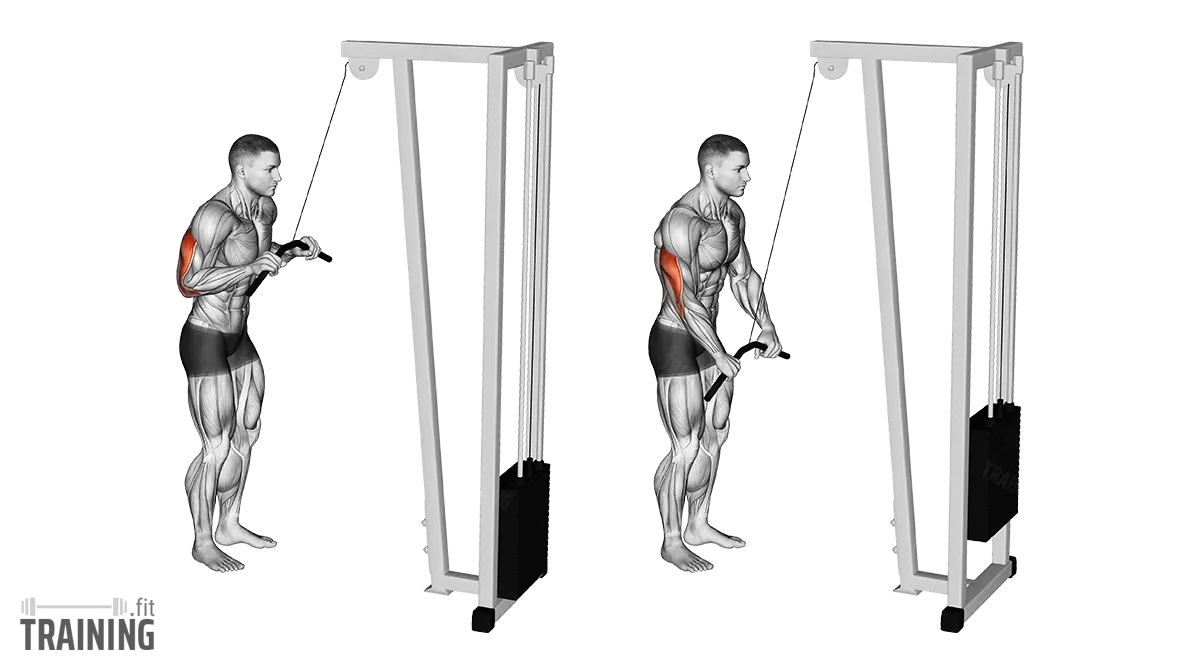
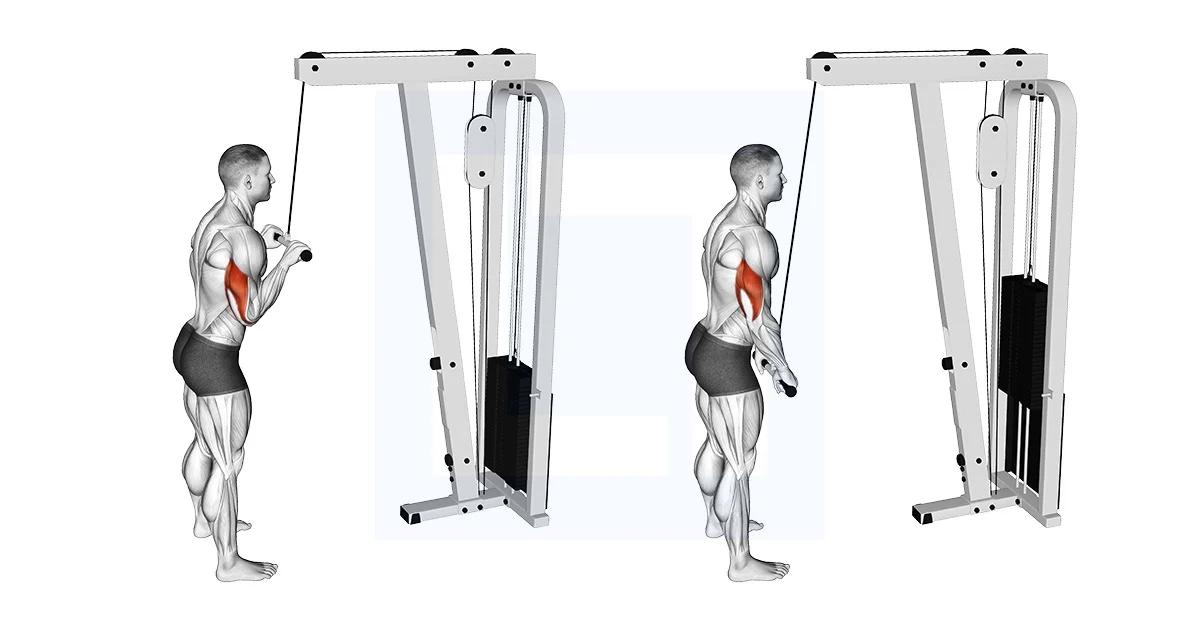
añadidas imagenes recurso de cada ejercicio

diff --git a/seccion_ejercicios.js b/seccion_ejercicios.js
@@ -6,19 +6,19 @@ let ejerciciosPredeterminados = [
   { nombre: "Tríceps en polea", musculo: "Tríceps", descripcion: "Empuje de barra o cuerda en polea alta hacia abajo. Aísla el tríceps de forma segura y efectiva.", imagenes: ["ejercicios_predeterminados/triceps_polea.webp"] },
   { nombre: "Pájaros en polea alta", musculo: "Pecho", descripcion: "Aperturas con poleas desde posición alta. Trabaja el pectoral en su ángulo más completo, similar a la banca plana.", imagenes: ["ejercicios_predeterminados/pajaros_altos.webp"] },
   { nombre: "Pájaros en polea baja", musculo: "Pecho", descripcion: "Apertura con poleas desde posición baja. Activa sobre todo la parte superior del pectoral.", imagenes: ["ejercicios_predeterminados/pajaros_bajos.webp"]},
-  { nombre: "Dominadas lastradas", musculo: "Espalda", descripcion: "Dominadas con peso añadido. Trabaja dorsales y fuerza de agarre.", imagenes: ["Dominadas-lastradas-subida-explosiva.png"] },
-  { nombre: "Jalón al pecho", musculo: "Espalda", descripcion: "Tirón de polea alta hacia el pecho. Ideal para trabajar los músculos dorsales.", imagenes: ["ejercicios_predeterminados/jalon_al_pecho.webp"]},
-  { nombre: "Remo con barra", musculo: "Espalda alta", descripcion: "Tracción horizontal con barra hacia el abdomen. Ideal para desarrollar trapecios, romboides y dorsales.", imagenes: [] },
-  { nombre: "Remo sentado", musculo: "Espalda media", descripcion: "Tracción con polea baja y agarre en V. Trabaja la parte media de la espalda y los dorsales inferiores.", imagenes: [] },
+  { nombre: "Dominadas lastradas", musculo: "Espalda", descripcion: "Dominadas con peso añadido. Trabaja dorsales y fuerza de agarre.", imagenes: ["ejercicios_predeterminados/dominadas_lastradas.jpg"] },
+  { nombre: "Jalón al pecho", musculo: "Espalda", descripcion: "Tirón de polea alta hacia el pecho. Ideal para trabajar los músculos dorsales.", imagenes: ["ejercicios_predeterminados/jalon_al_pecho.jpeg"]},
+  { nombre: "Remo con barra", musculo: "Espalda alta", descripcion: "Tracción horizontal con barra hacia el abdomen. Ideal para desarrollar trapecios, romboides y dorsales.", imagenes: ["ejercicios_predeterminados/remon_con_barra.png"] },
+  { nombre: "Remo sentado", musculo: "Espalda media", descripcion: "Tracción con polea baja y agarre en V. Trabaja la parte media de la espalda y los dorsales inferiores.", imagenes: ["ejercicios_predeterminados/Seated+Cable+Row1.webp","ejercicios_predeterminados/seated-cable-row2.jpg"] },
   { nombre: "Face pull", musculo: "Espalda alta", descripcion: "Tirón facial con polea alta. Perfecto para deltoides posterior, trapecio y mejorar la postura.", imagenes: ["ejercicios_predeterminados/face_pull.webp"]},
-  { nombre: "Curl de bíceps banco inclinado", musculo: "Bíceps", descripcion: "Curl de bíceps acostado boca arriba en banco inclinado. Alarga el bíceps y evita trampas con el torso.", imagenes: [] },
-  { nombre: "Curl de bíceps en polea", musculo: "Bíceps", descripcion: "Curl con polea baja y barra recta o cuerda. Mantiene tensión constante durante todo el movimiento.", imagenes: [] },
+  { nombre: "Curl de bíceps banco inclinado", musculo: "Bíceps", descripcion: "Curl de bíceps acostado boca arriba en banco inclinado. Alarga el bíceps y evita trampas con el torso.", imagenes: ["ejercicios_predeterminados/dumbbell-incline-biceps-curl.webp"] },
+  { nombre: "Curl de bíceps en polea", musculo: "Bíceps", descripcion: "Curl con polea baja y barra recta o cuerda. Mantiene tensión constante durante todo el movimiento.", imagenes: ["ejercicios_predeterminados/biceps_polea.webp"] },
   { nombre: "Elevaciones laterales en polea", musculo: "Hombros", descripcion: "Elevación lateral con polea baja de pie. Aísla el deltoides medio de forma continua.", imagenes: ["ejercicios_predeterminados/elevaciones_laterales.webp"] },
-  { nombre: "Sentadillas con barra", musculo: "Piernas", descripcion: "Ejercicio rey del tren inferior. Trabaja cuádriceps, glúteos y estabilizadores de forma global.", imagenes: [] },
-  { nombre: "Prensa de piernas", musculo: "Cuádriceps", descripcion: "Empuje en máquina de prensa horizontal o inclinada. Aísla bien el cuádriceps sin carga en la espalda.", imagenes: [] },
+  { nombre: "Sentadillas con barra", musculo: "Piernas", descripcion: "Ejercicio rey del tren inferior. Trabaja cuádriceps, glúteos y estabilizadores de forma global.", imagenes: ["ejercicios_predeterminados/sentadillas.jpg"] },
+  { nombre: "Prensa de piernas", musculo: "Cuádriceps", descripcion: "Empuje en máquina de prensa horizontal o inclinada. Aísla bien el cuádriceps sin carga en la espalda.", imagenes: ["ejercicios_predeterminados/prensa_piernas.jpeg"] },
   { nombre: "Peso muerto rumano", musculo: "Femorales", descripcion: "Peso muerto con piernas semirrígidas. Enfoque máximo en isquiotibiales y glúteo.", imagenes: ["ejercicios_predeterminados/peso_muerto_rumano.webp"] },
-  { nombre: "Hiptrust", musculo: "Glúteo", descripcion: "Empuje de cadera con barra apoyada en la pelvis. El mejor ejercicio para activar y desarrollar el glúteo.", imagenes: [] },
-  { nombre: "Elevaciones de gemelo", musculo: "Gemelos", descripcion: "Subida de talones de pie o sentado. Ideal para desarrollar sóleo y gemelos en toda su amplitud.", imagenes: [] }
+  { nombre: "Hiptrust", musculo: "Glúteo", descripcion: "Empuje de cadera con barra apoyada en la pelvis. El mejor ejercicio para activar y desarrollar el glúteo.", imagenes: ["ejercicios_predeterminados/hipthrust.jpeg"] },
+  { nombre: "Elevaciones de gemelo", musculo: "Gemelos", descripcion: "Subida de talones de pie o sentado. Ideal para desarrollar sóleo y gemelos en toda su amplitud.", imagenes: ["ejercicios_predeterminados/gemelos.webp"] }
 ];
 
 let ejerciciosDB = [];

diff --git a/service-worker.js b/service-worker.js
@@ -25,16 +25,28 @@ const ARCHIVOS_CACHE = [
         "./manifest.json",
         // MANUAL DE USUARIO
         "./manual_usuario.html",
-        //Multimedia de ejercicios
-        "ejercicios_predeterminados/press_banca.jpeg",
-        "ejercicios_predeterminados/banca_inclinada.webp",
-        "ejercicios_predeterminados/press_militar.webp",
-        "ejercicios_predeterminados/fondos_lastrados.jpg",
-        "ejercicios_predeterminados/triceps_polea.webp",
-        "ejercicios_predeterminados/pajaros_altos.webp",
-        "ejercicios_predeterminados/pajaros_bajos.webp",
-        "Dominadas-lastradas-subida-explosiva.png",
-        
+// Multimedia de ejercicios
+"ejercicios_predeterminados/press_banca.jpeg",
+"ejercicios_predeterminados/banca_inclinada.webp",
+"ejercicios_predeterminados/press_militar.webp",
+"ejercicios_predeterminados/fondos_lastrados.jpg",
+"ejercicios_predeterminados/triceps_polea.webp",
+"ejercicios_predeterminados/pajaros_altos.webp",
+"ejercicios_predeterminados/pajaros_bajos.webp",
+"ejercicios_predeterminados/jalon_al_pecho.jpeg",
+"ejercicios_predeterminados/remon_con_barra.png",
+"ejercicios_predeterminados/Seated+Cable+Row1.webp",
+"ejercicios_predeterminados/seated-cable-row2.jpg",
+"ejercicios_predeterminados/face_pull.webp",
+"ejercicios_predeterminados/dumbbell-incline-biceps-curl.webp",
+"ejercicios_predeterminados/biceps_polea.webp",
+"ejercicios_predeterminados/elevaciones_laterales.webp",
+"ejercicios_predeterminados/sentadillas.jpg",
+"ejercicios_predeterminados/prensa_piernas.jpeg",
+"ejercicios_predeterminados/peso_muerto_rumano.webp",
+"ejercicios_predeterminados/hipthrust.jpeg",
+"ejercicios_predeterminados/gemelos.webp",
+"ejercicios_predeterminados/dominadas_lastradas.jpg"
 ];
 
 // INSTALACIÓN DEL SERVICE WORKER
